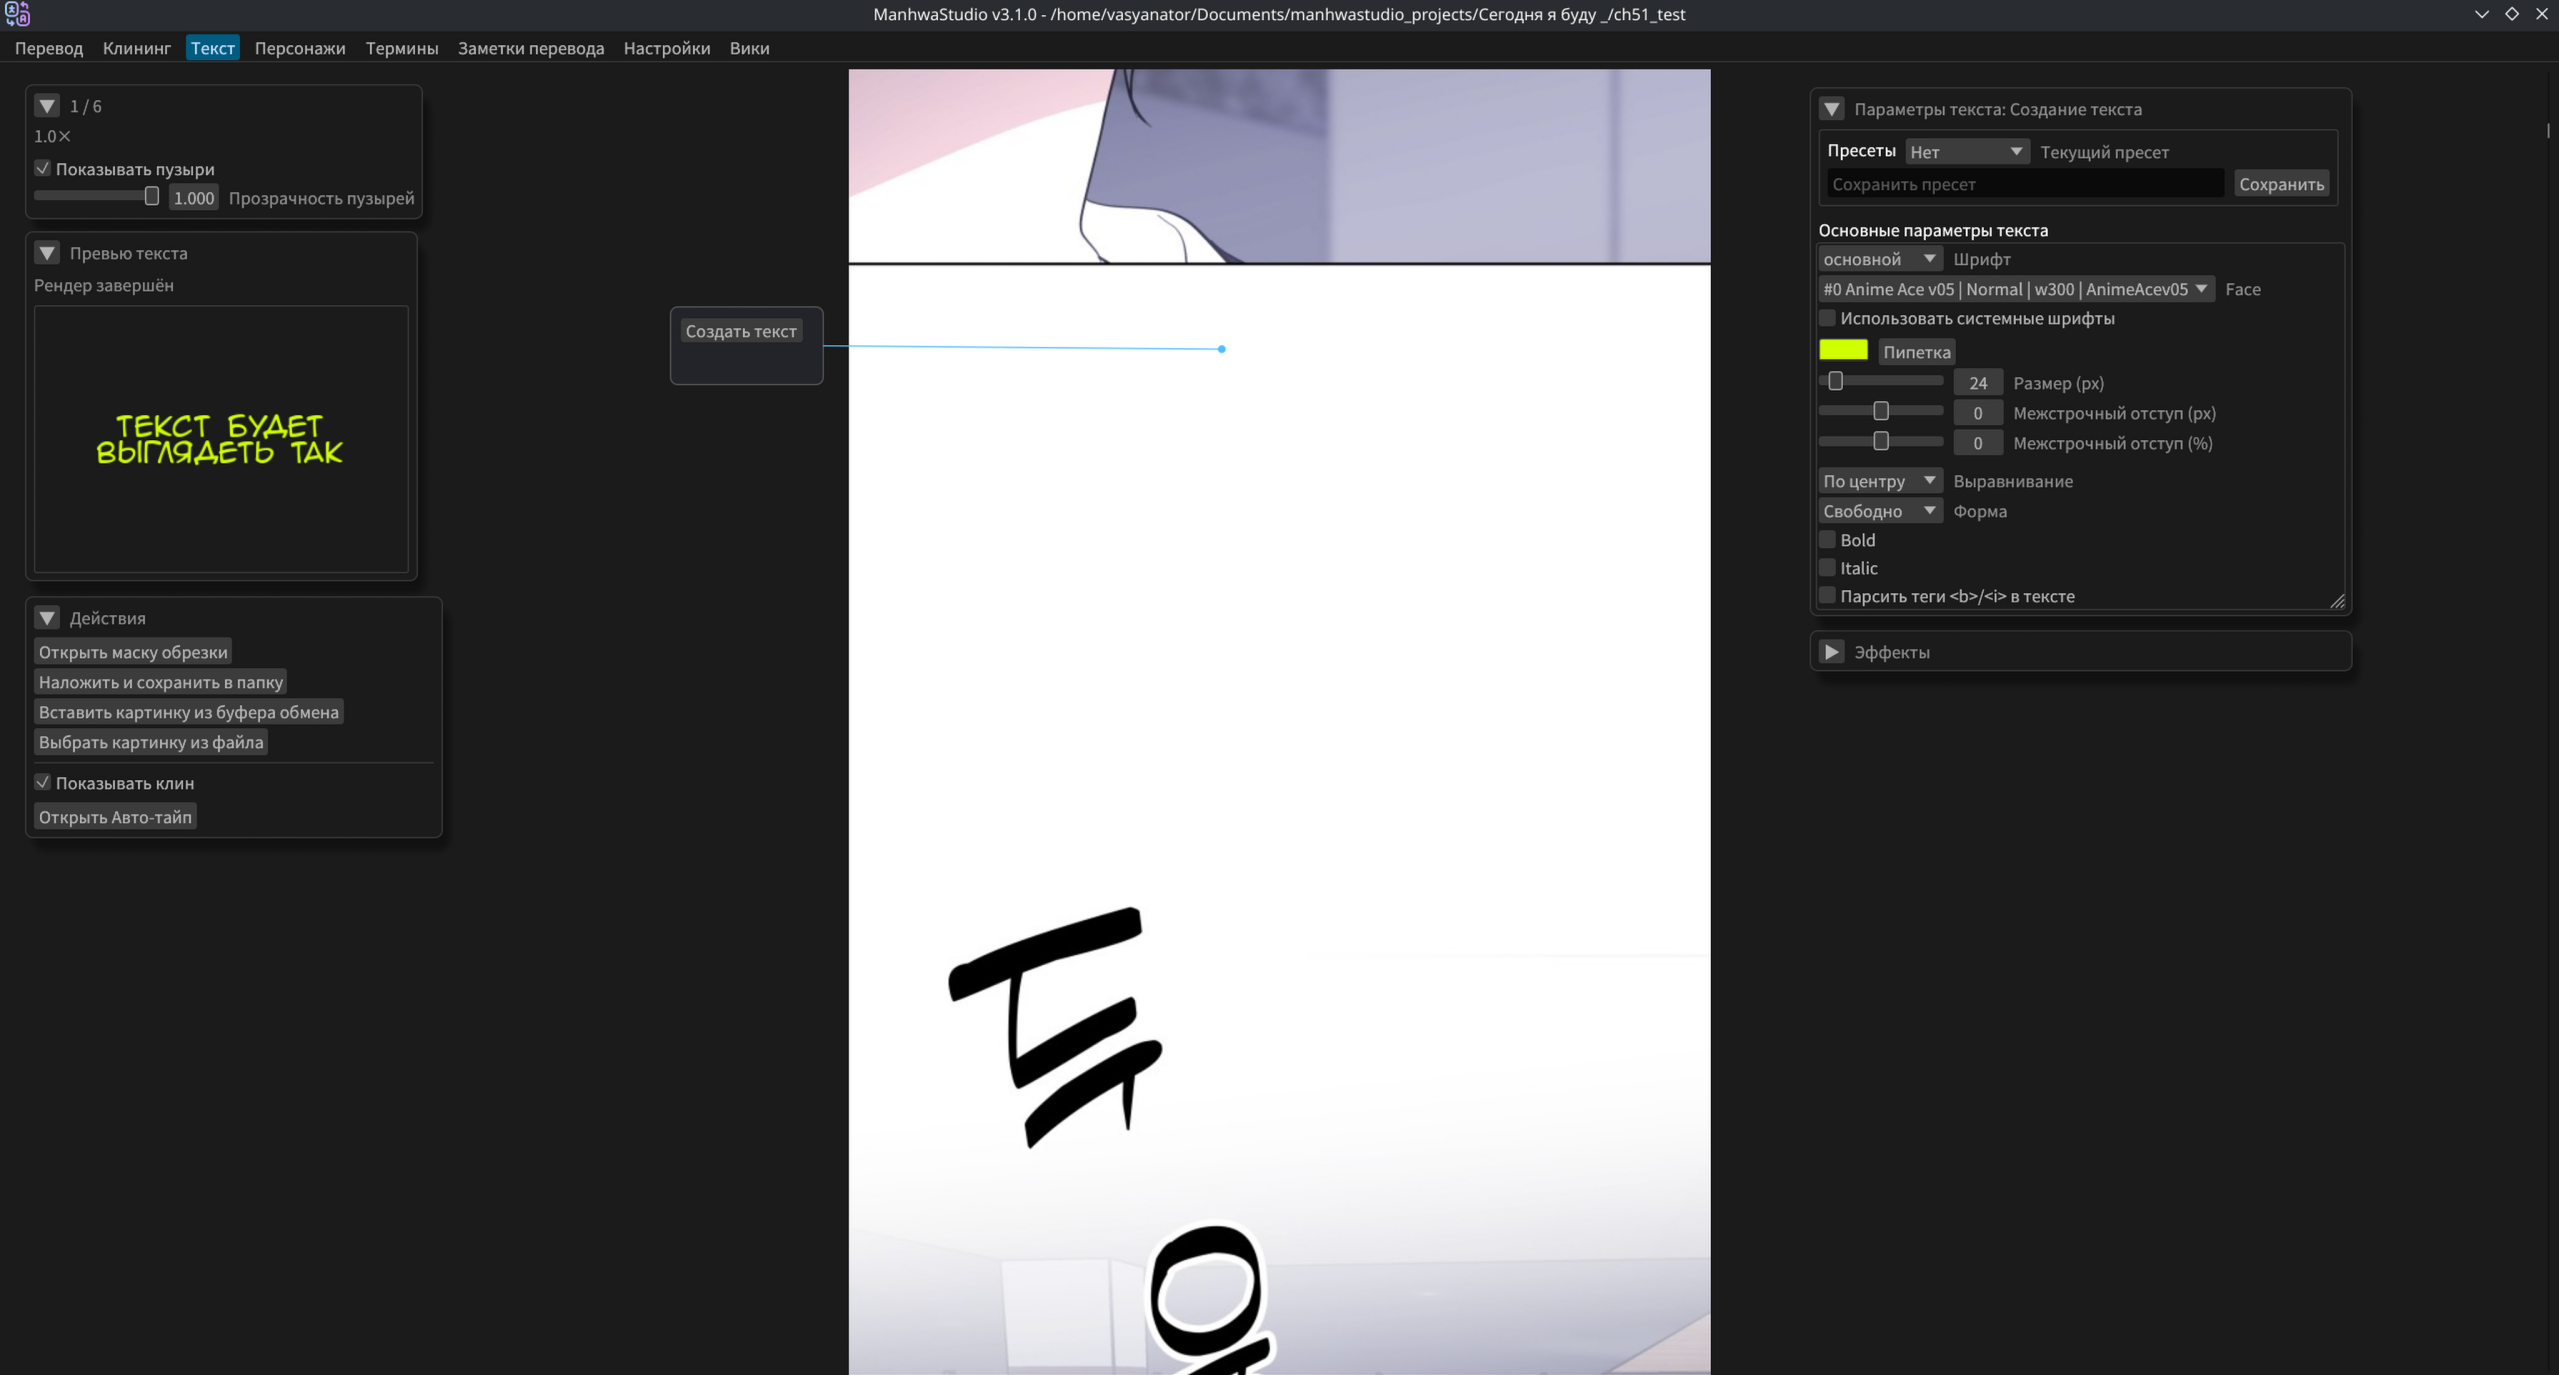
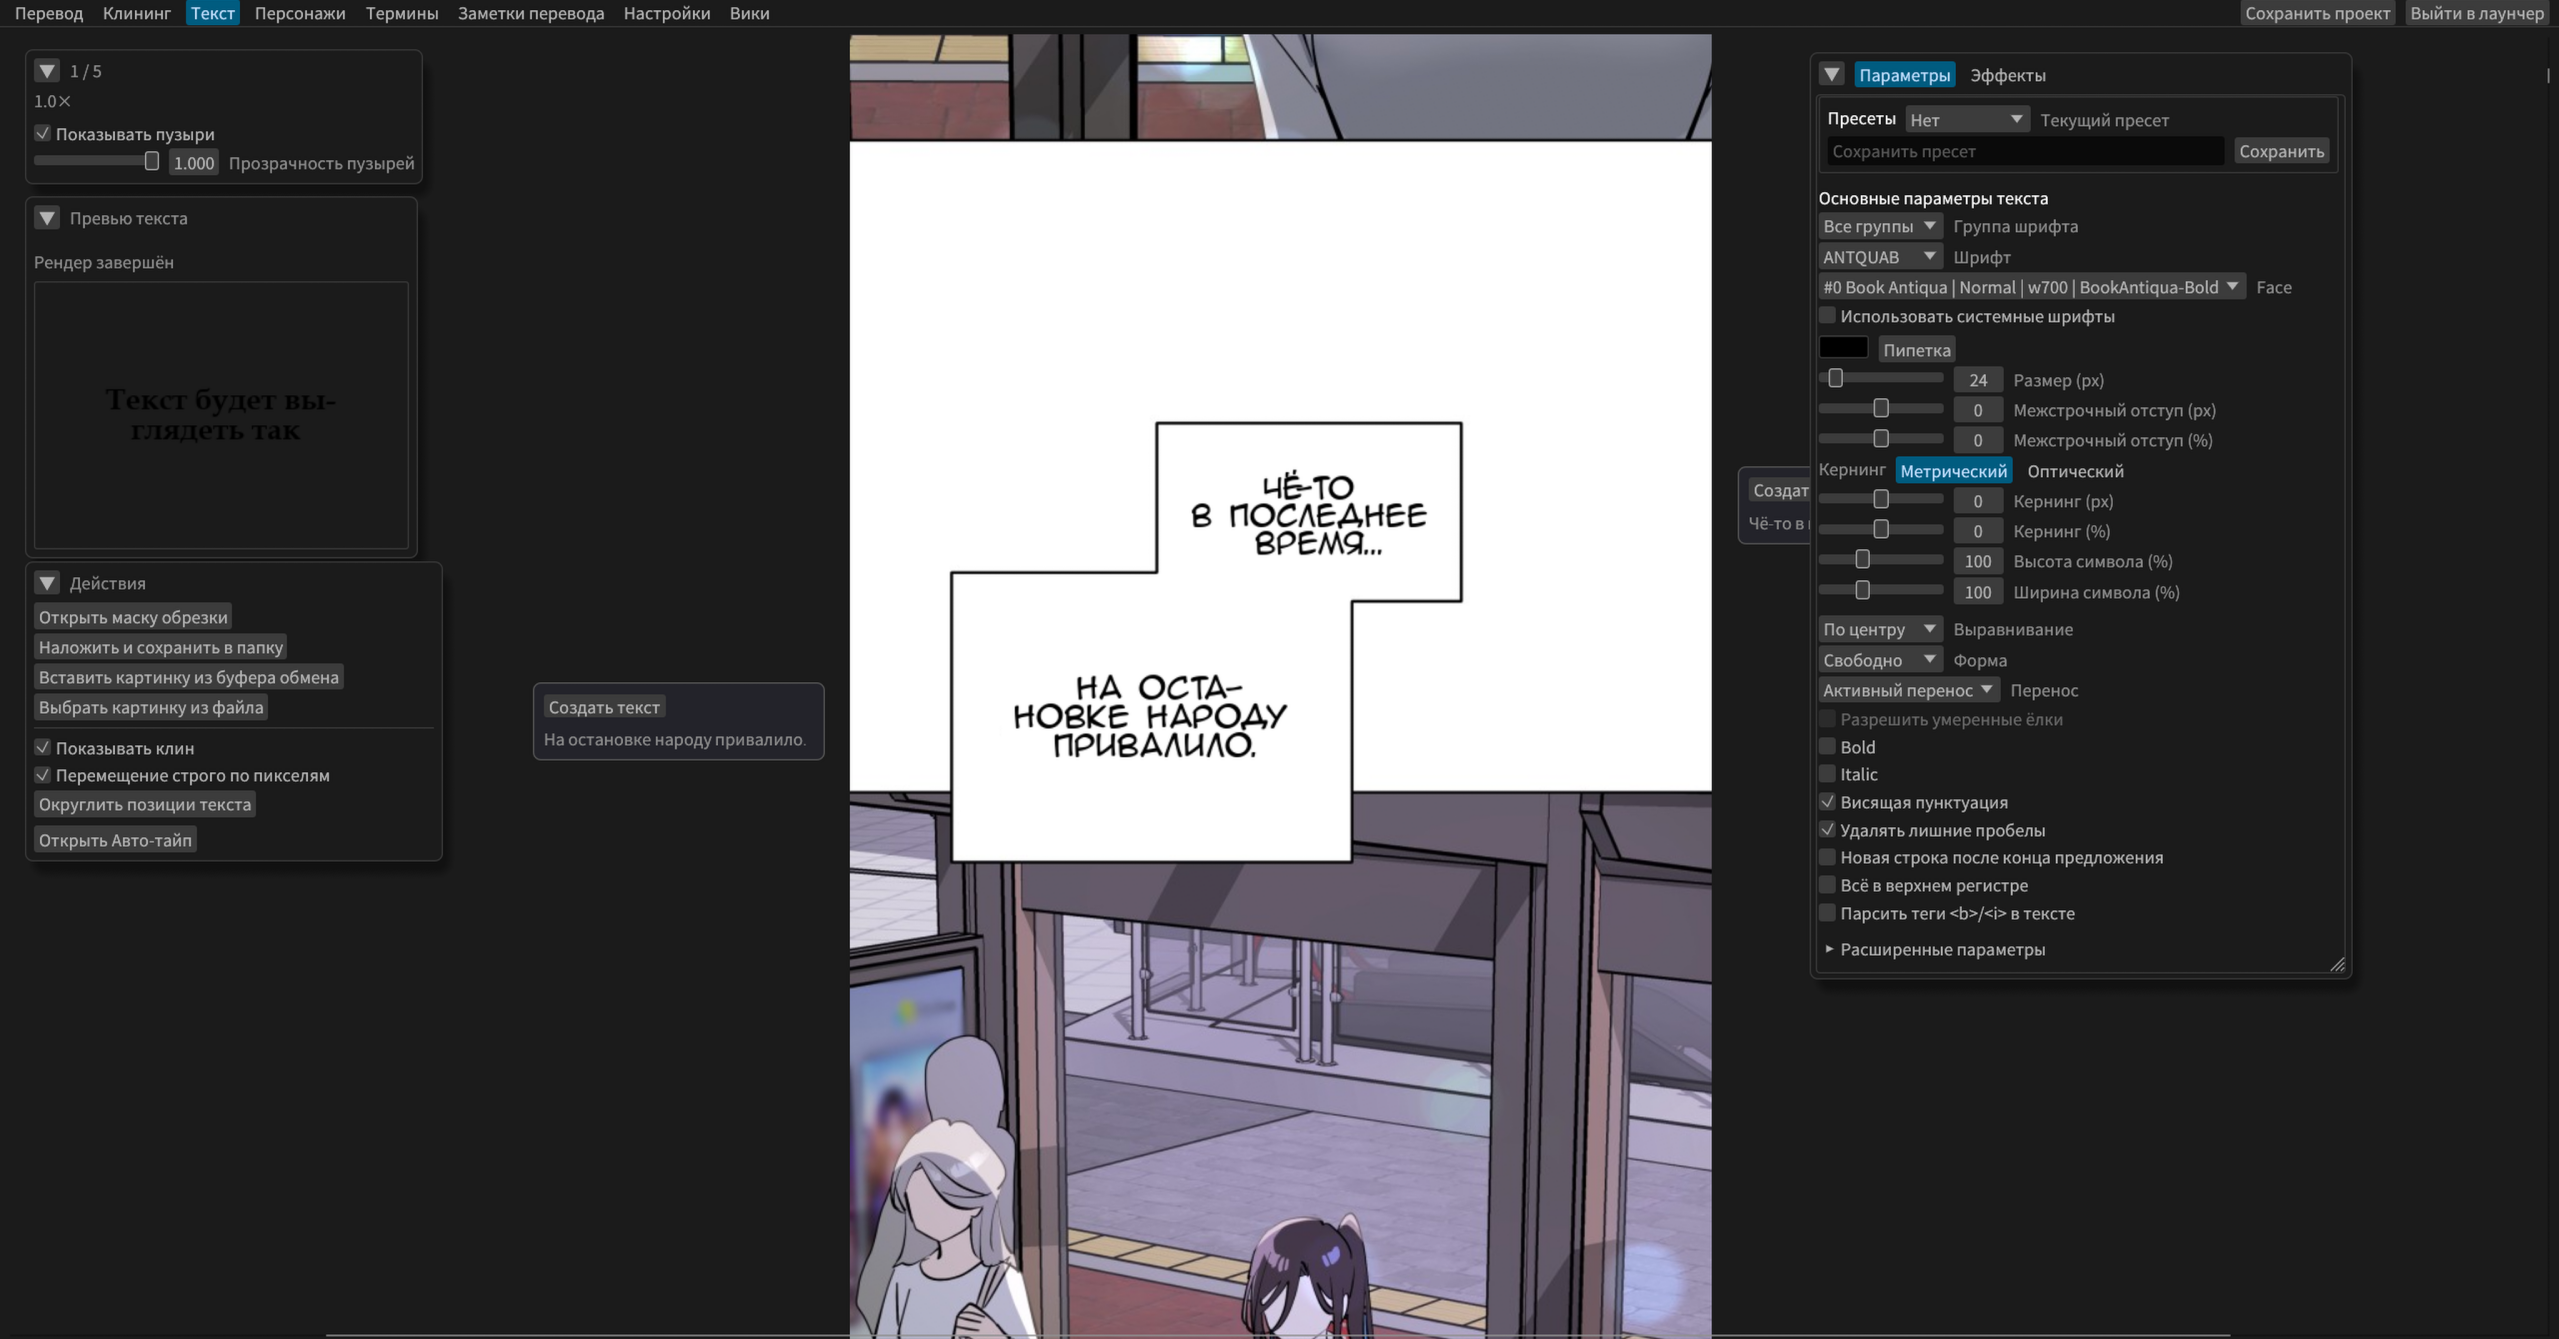
Исправить проблемы с картинками в вики на винде

diff --git a/src/tabs/wiki.rs b/src/tabs/wiki.rs
@@ -24,6 +24,8 @@ Inline rendering notes:
   falls back to stronger color emphasis when bold font is unavailable.
 - image destinations accept Markdown angle delimiters (`<path with spaces>`),
   which are stripped before local path resolution.
+- relative local image paths are normalized through `PathBuf` on Windows so
+  Markdown sources with `/` separators resolve as native filesystem paths.
 */
 
 use eframe::egui;
@@ -758,7 +760,25 @@ fn resolve_image_source(base_dir: &Path, source: &str) -> String {
     if path.is_absolute() {
         return path.to_string_lossy().to_string();
     }
-    base_dir.join(path).to_string_lossy().to_string()
+    base_dir
+        .join(relative_local_image_source_path(source))
+        .to_string_lossy()
+        .to_string()
+}
+
+fn relative_local_image_source_path(source: &str) -> PathBuf {
+    #[cfg(windows)]
+    {
+        source
+            .split(['/', '\\'])
+            .filter(|part| !part.is_empty())
+            .collect()
+    }
+
+    #[cfg(not(windows))]
+    {
+        PathBuf::from(source)
+    }
 }
 
 fn load_local_image_rgba(path: &Path) -> Result<(usize, usize, Vec<u8>), String> {
@@ -824,6 +844,15 @@ mod tests {
         assert_eq!(
             resolve_image_source(Path::new("wiki"), &source),
             "wiki/images/with spaces/image.png"
+        );
+    }
+
+    #[cfg(windows)]
+    #[test]
+    fn resolve_image_source_normalizes_markdown_slashes_on_windows() {
+        assert_eq!(
+            resolve_image_source(Path::new("wiki"), "images/Вкладка-Термины/1.png"),
+            r"wiki\images\Вкладка-Термины\1.png"
         );
     }
 }

diff --git a/config.py b/config.py
@@ -13,7 +13,7 @@ import os
 from pathlib import Path
 import json
 from typing import Any, Dict, Optional
-VERSION = "3.4.0"
+VERSION = "3.4.1"
 
 
 def _default_documents_dir() -> Optional[Path]: